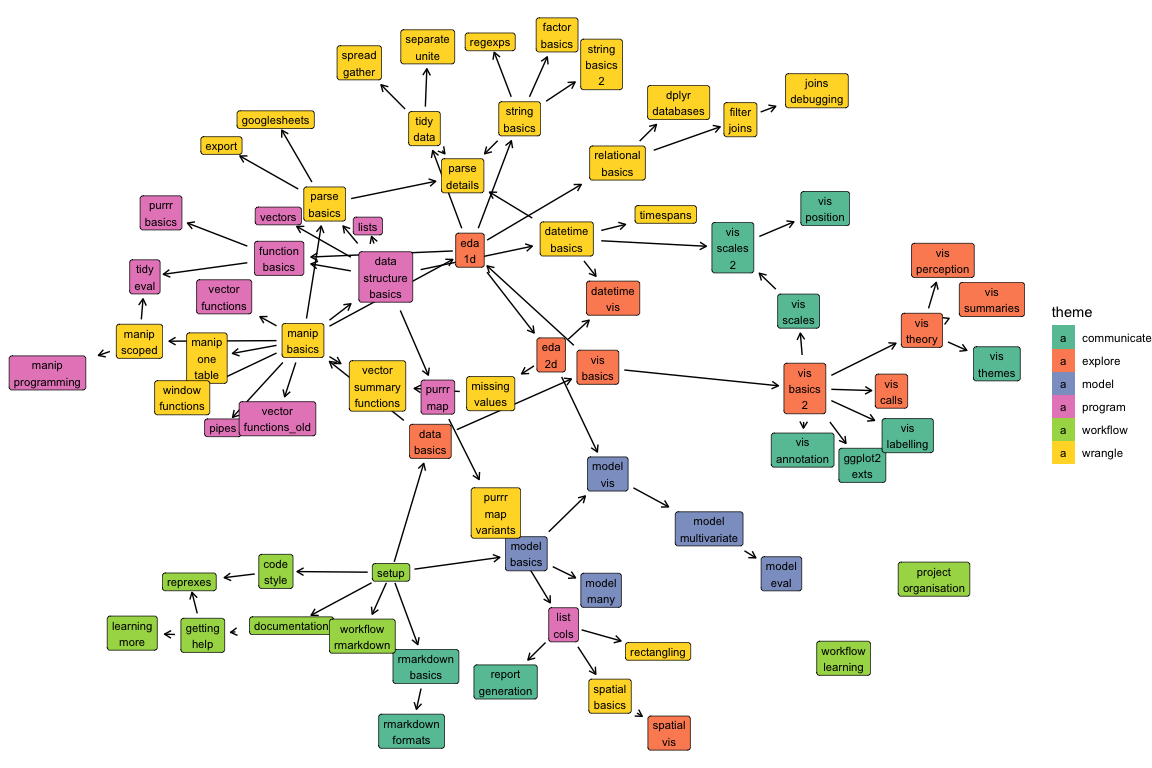
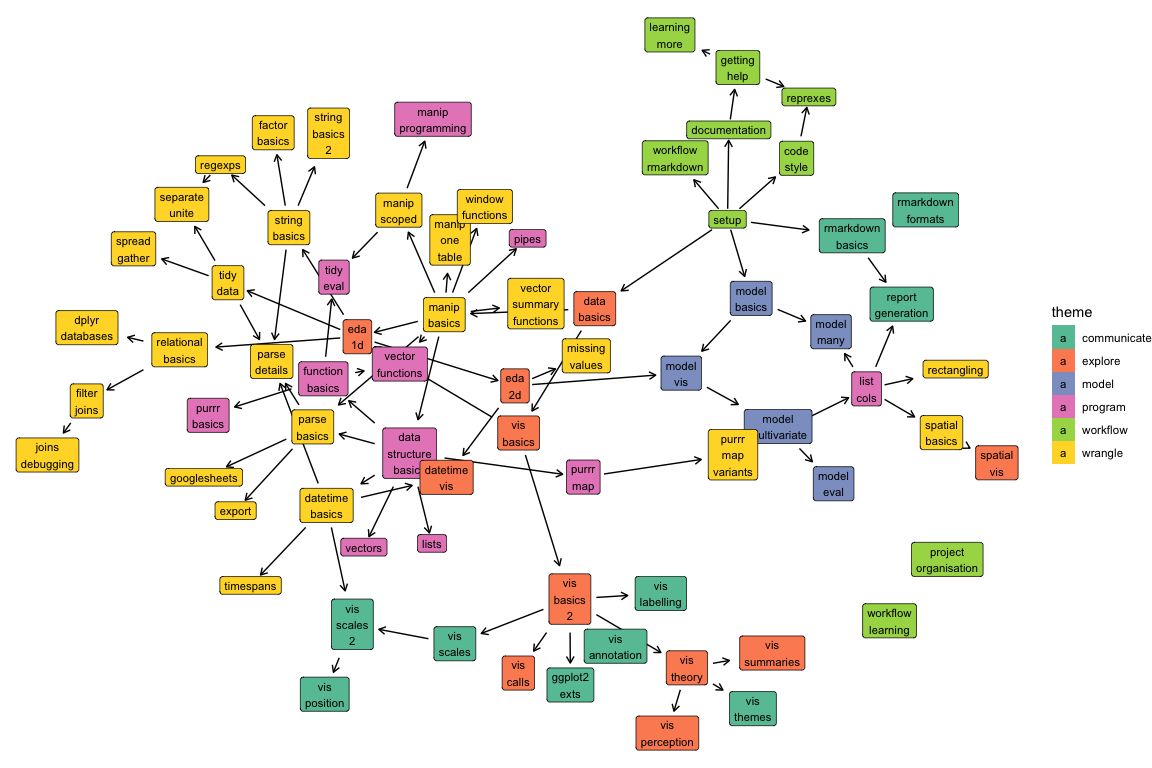
New vector-functions

Changed region(s): [[0.0, 0.0, 0.9062, 1.0], [0.5625, 0.6562, 0.6562, 0.7188], [0.6562, 0.7188, 0.7188, 0.7812]]

diff --git a/docs/manip-basics.md b/docs/manip-basics.md
@@ -6,7 +6,7 @@ title: Manipulation basics
 
 # Manipulation basics <small class='wrangle'>[wrangle]</small>
 <small>(Builds on: [Data basics](data-basics.md))</small>  
-<small>(Leads to: [Data structure basics](data-structure-basics.md), [Exploratory data analysis (1D)](eda-1d.md), [Other single table verbs](manip-one-table.md), [Scoped verbs](manip-scoped.md), [Parsing basics](parse-basics.md), [Pipes](pipes.md), [Vector functions](vector-functions_old.md), [Vector functions](vector-functions.md), [Vector and summary functions](vector-summary-functions.md), [Window functions](window-functions.md))</small>
+<small>(Leads to: [Data structure basics](data-structure-basics.md), [Exploratory data analysis (1D)](eda-1d.md), [Other single table verbs](manip-one-table.md), [Scoped verbs](manip-scoped.md), [Parsing basics](parse-basics.md), [Pipes](pipes.md), [Vector functions](vector-functions.md), [Vector and summary functions](vector-summary-functions.md), [Window functions](window-functions.md))</small>
 
 
 ``` r
